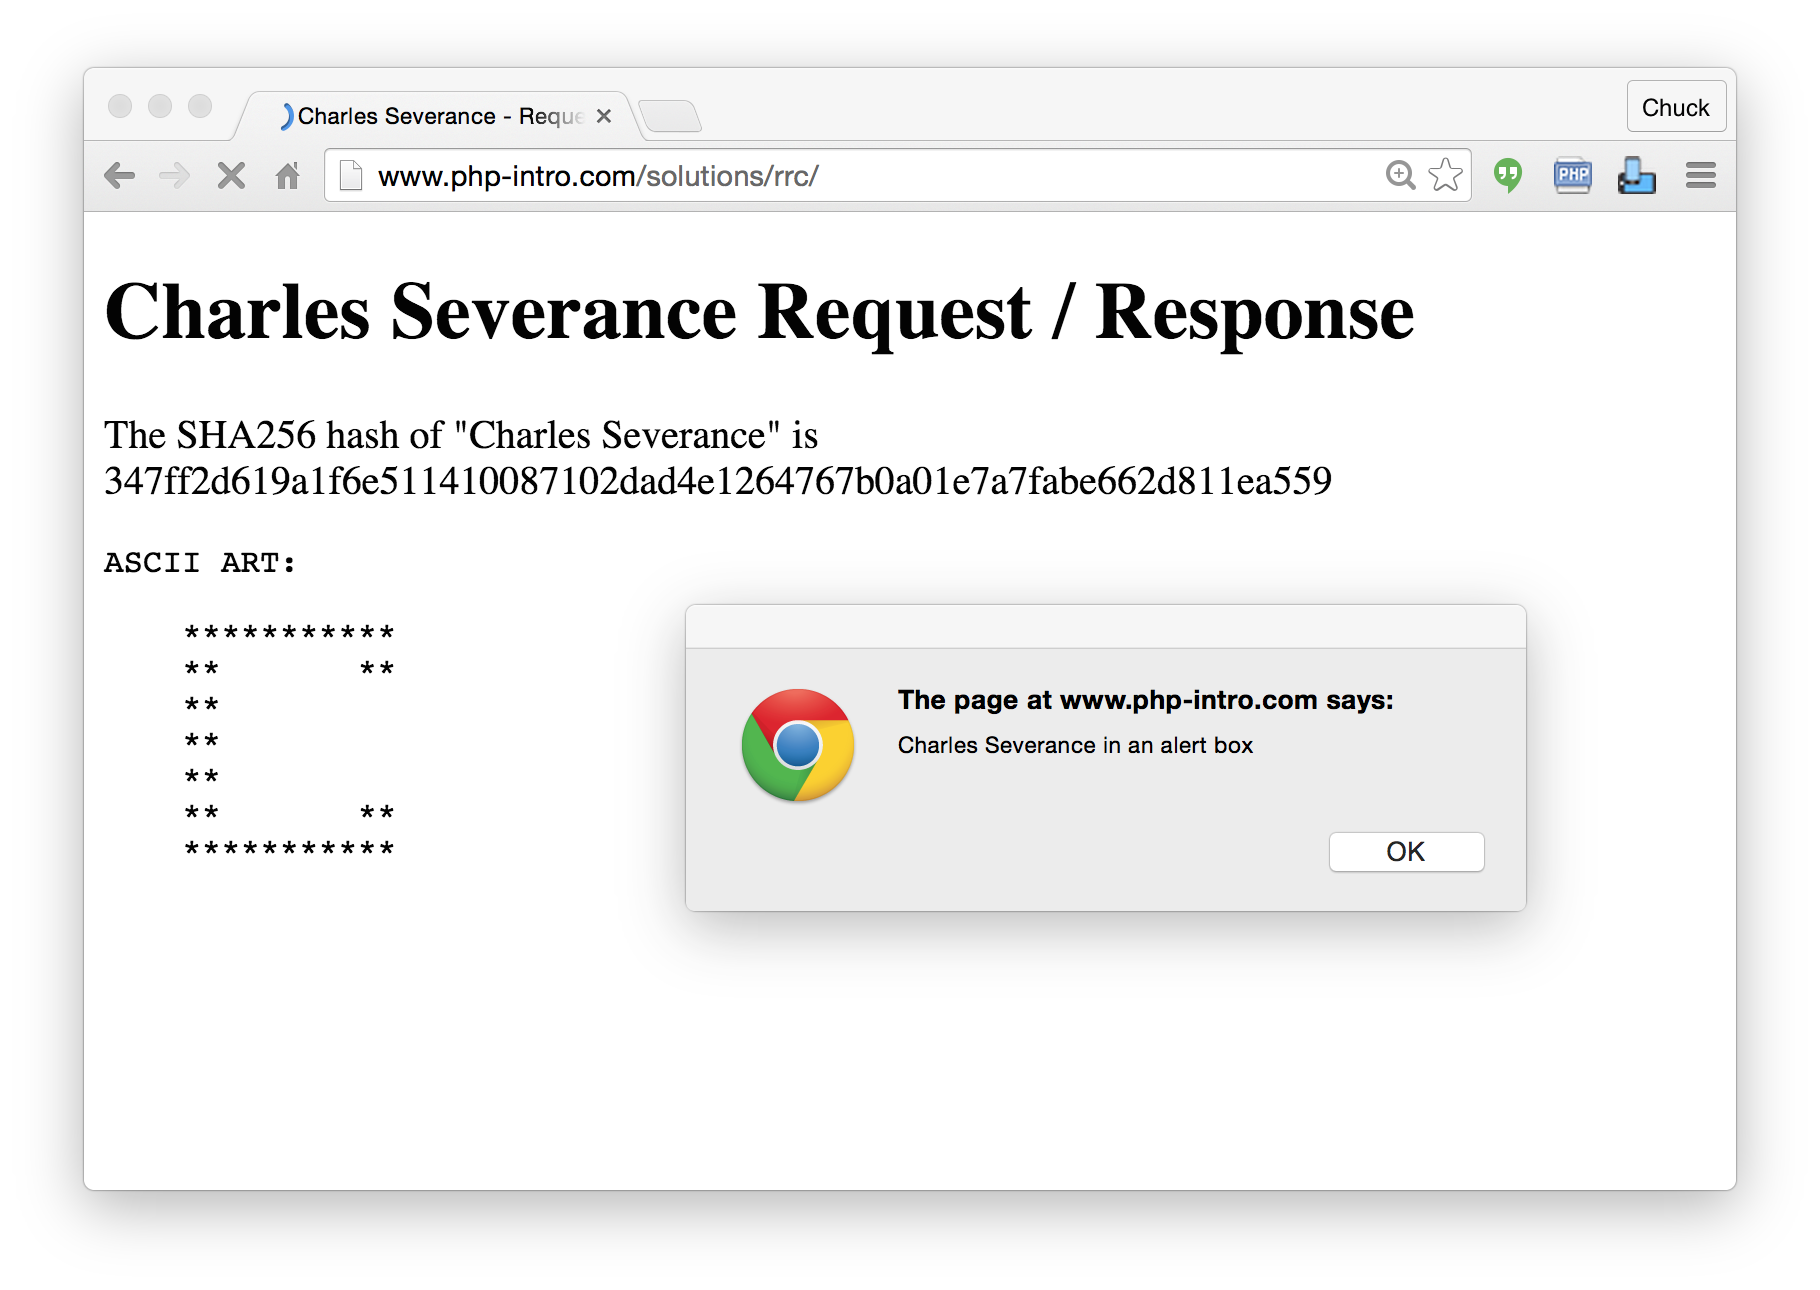
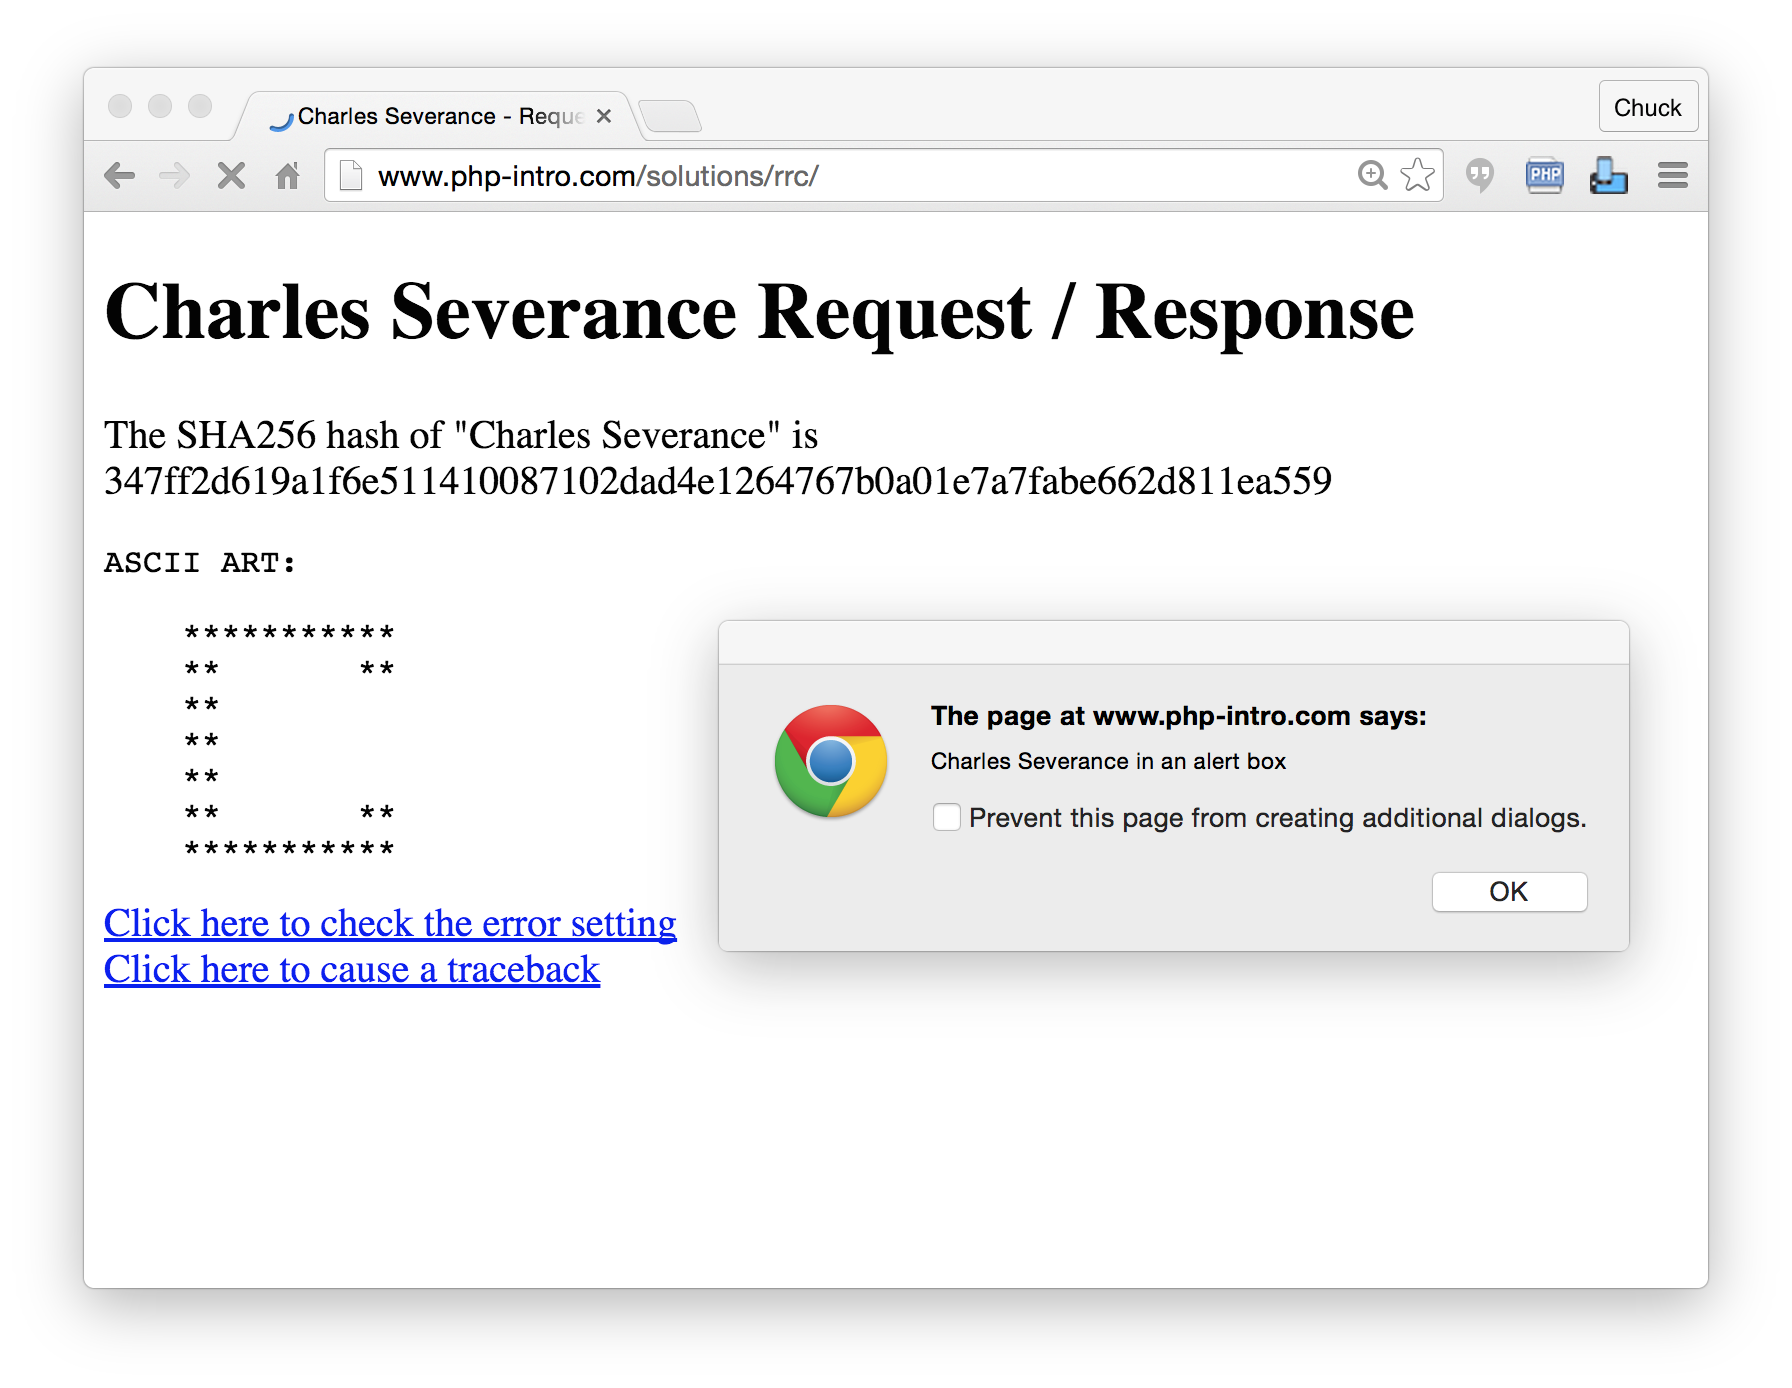
Add two more files to rrc.

diff --git a/assn/rrc/index.php b/assn/rrc/index.php
@@ -30,6 +30,10 @@ print hash('sha256', 'Charles Severance');
 <li>Your name must be in a JavaScript alert() box with text like 
 'Charles Severance in an alert box' </li>
 <li>Your name must be in the console log with text like 'Charles Severance in the log' </li></li>
+<li>Save <a href="fail.txt" target="_blank">this file</a> as <b>fail.php</b> in the 
+application folder.</li>
+<li>Save <a href="check.txt" target="_blank">this file</a> as <b>check.php</b> in the 
+application folder.</li>
 </ul>
 </p>
 <?php if ( isset($json->solution) ) { ?>
@@ -83,6 +87,18 @@ foreach($json->parts as $part ) {
 <center>
 <a href="02-console.png" target="_blank">
 <img src="02-console.png" width="80%"></a>
+</center>
+</p>
+<p>
+<center>
+<a href="03-fail.png" target="_blank">
+<img src="03-fail.png" width="80%"></a>
+</center>
+</p>
+<p>
+<center>
+<a href="04-check.png" target="_blank">
+<img src="04-check.png" width="80%"></a>
 </center>
 </p>
 <p>
